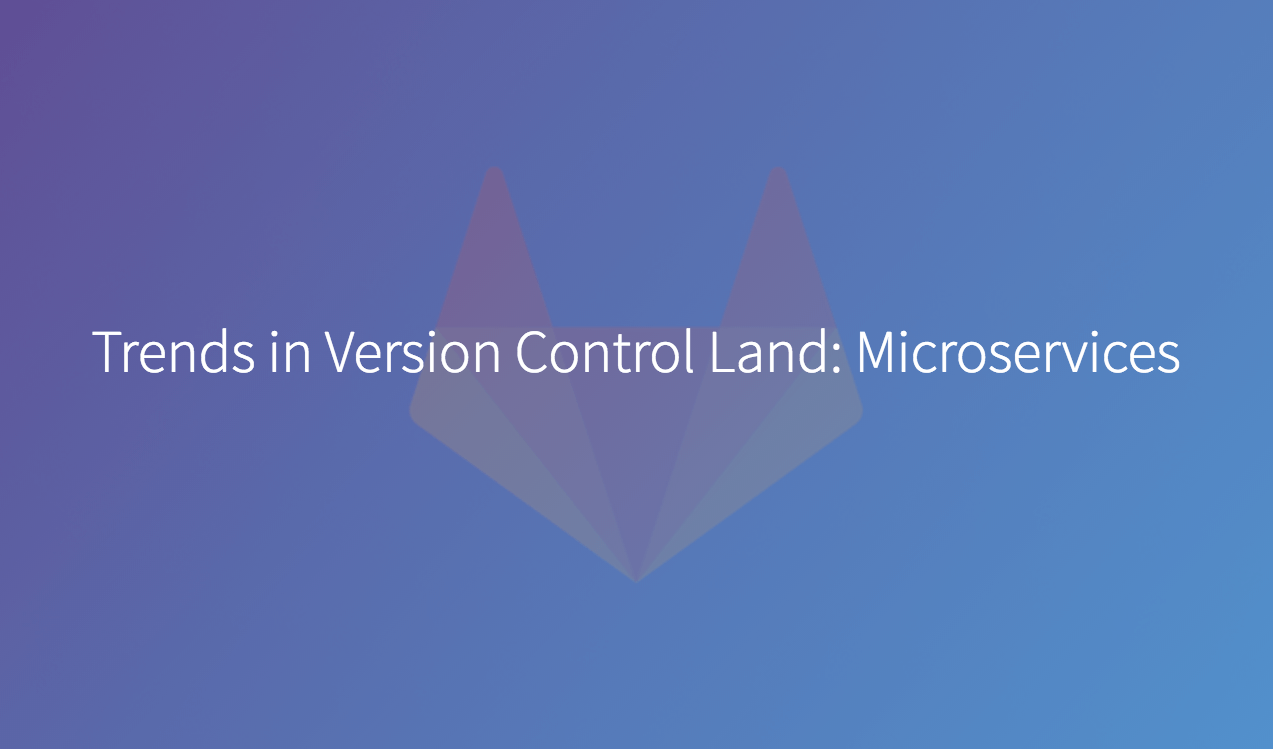
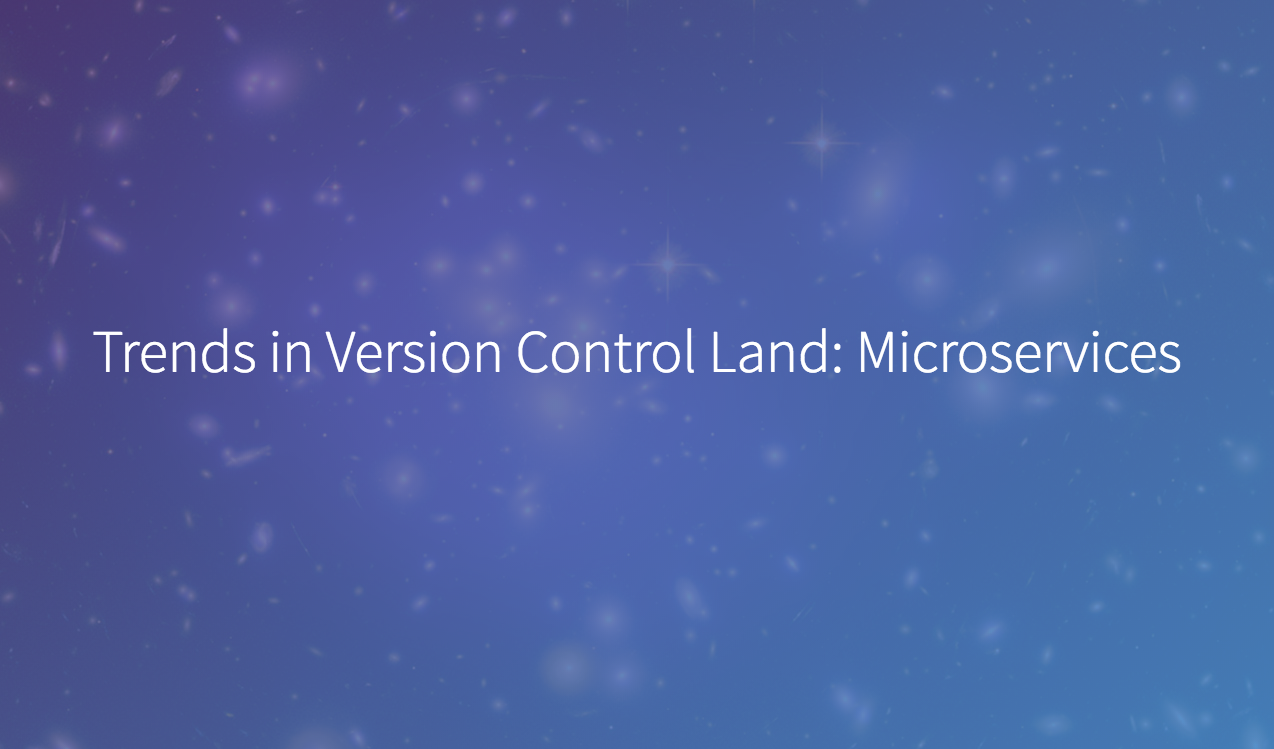
add cover + social media imgs

diff --git a/source/posts/2016-08-16-trends-in-version-control-land-microservices.html.md b/source/posts/2016-08-16-trends-in-version-control-land-microservices.html.md
@@ -4,7 +4,7 @@ categories: concepts
 author: Sid Sijbrandij
 author_twitter: sytses
 description: "Learn some benefits of microservices, and check out who's using it!"
-image_title: '/images/default-blog-image.png'
+image_title: '/images/blogimages/trends-in-version-control-land-microservices-cover.jpg'
 twitter_image: '/images/tweets/trends-in-version-control-land-microservices.png'
 ---
 
@@ -53,6 +53,7 @@ are a few of the companies that [are using microservices][companies-micro] to de
 a really nice narrative of their [move from monolith to microservices][uber-blog] on their blog.
 
 Clearly microservices architecture has amazing potential, not least because it makes the user experience more efficient.
+
 We’re very much on board with this trend. A major goal for us at GitLab is to make sure you
 can do everything you need to do within GitLab, with as few external integrations to deal
 with as possible. This way you don’t have to set up tools for each project and spend the time
@@ -75,3 +76,8 @@ Watch out for our last post of this series, where we'll go through **Open Source
 [soundcloud-micro]: https://developers.soundcloud.com/blog/building-products-at-soundcloud-part-1-dealing-with-the-monolith
 [uber-blog]: https://eng.uber.com/building-tincup/
 [uber-eng]: https://eng.uber.com/soa/
+
+<!-- 
+cover image: http://hubblesite.org/newscenter/archive/releases/2016/28/image/a/format/xlarge_web/layout/thumb/
+copyright - public domain: http://hubblesite.org/about_us/copyright.php 
+-->
